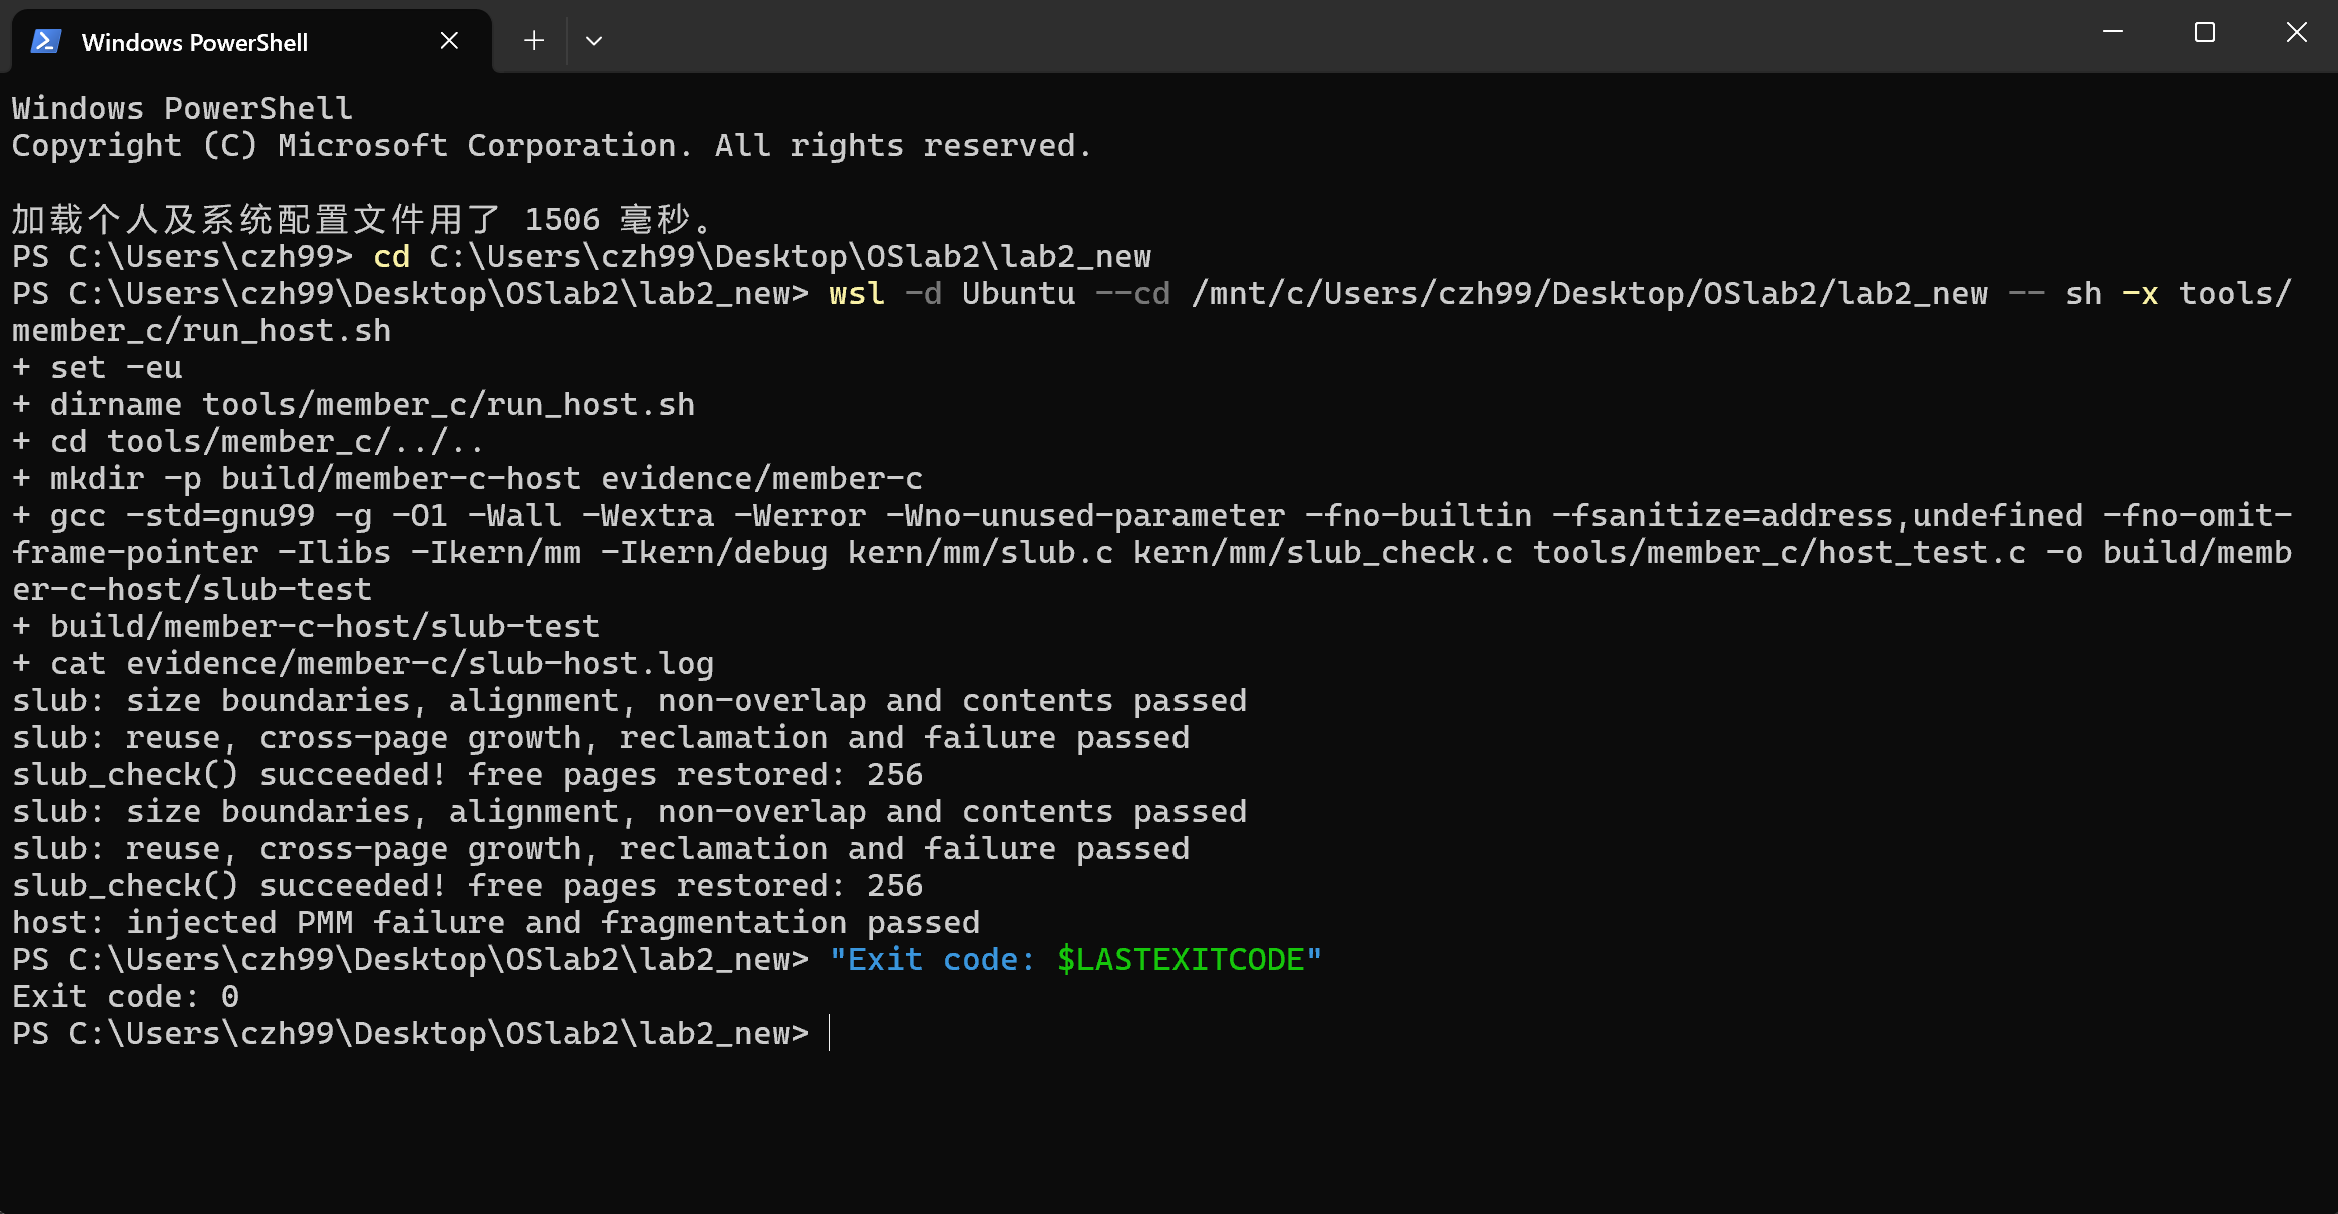
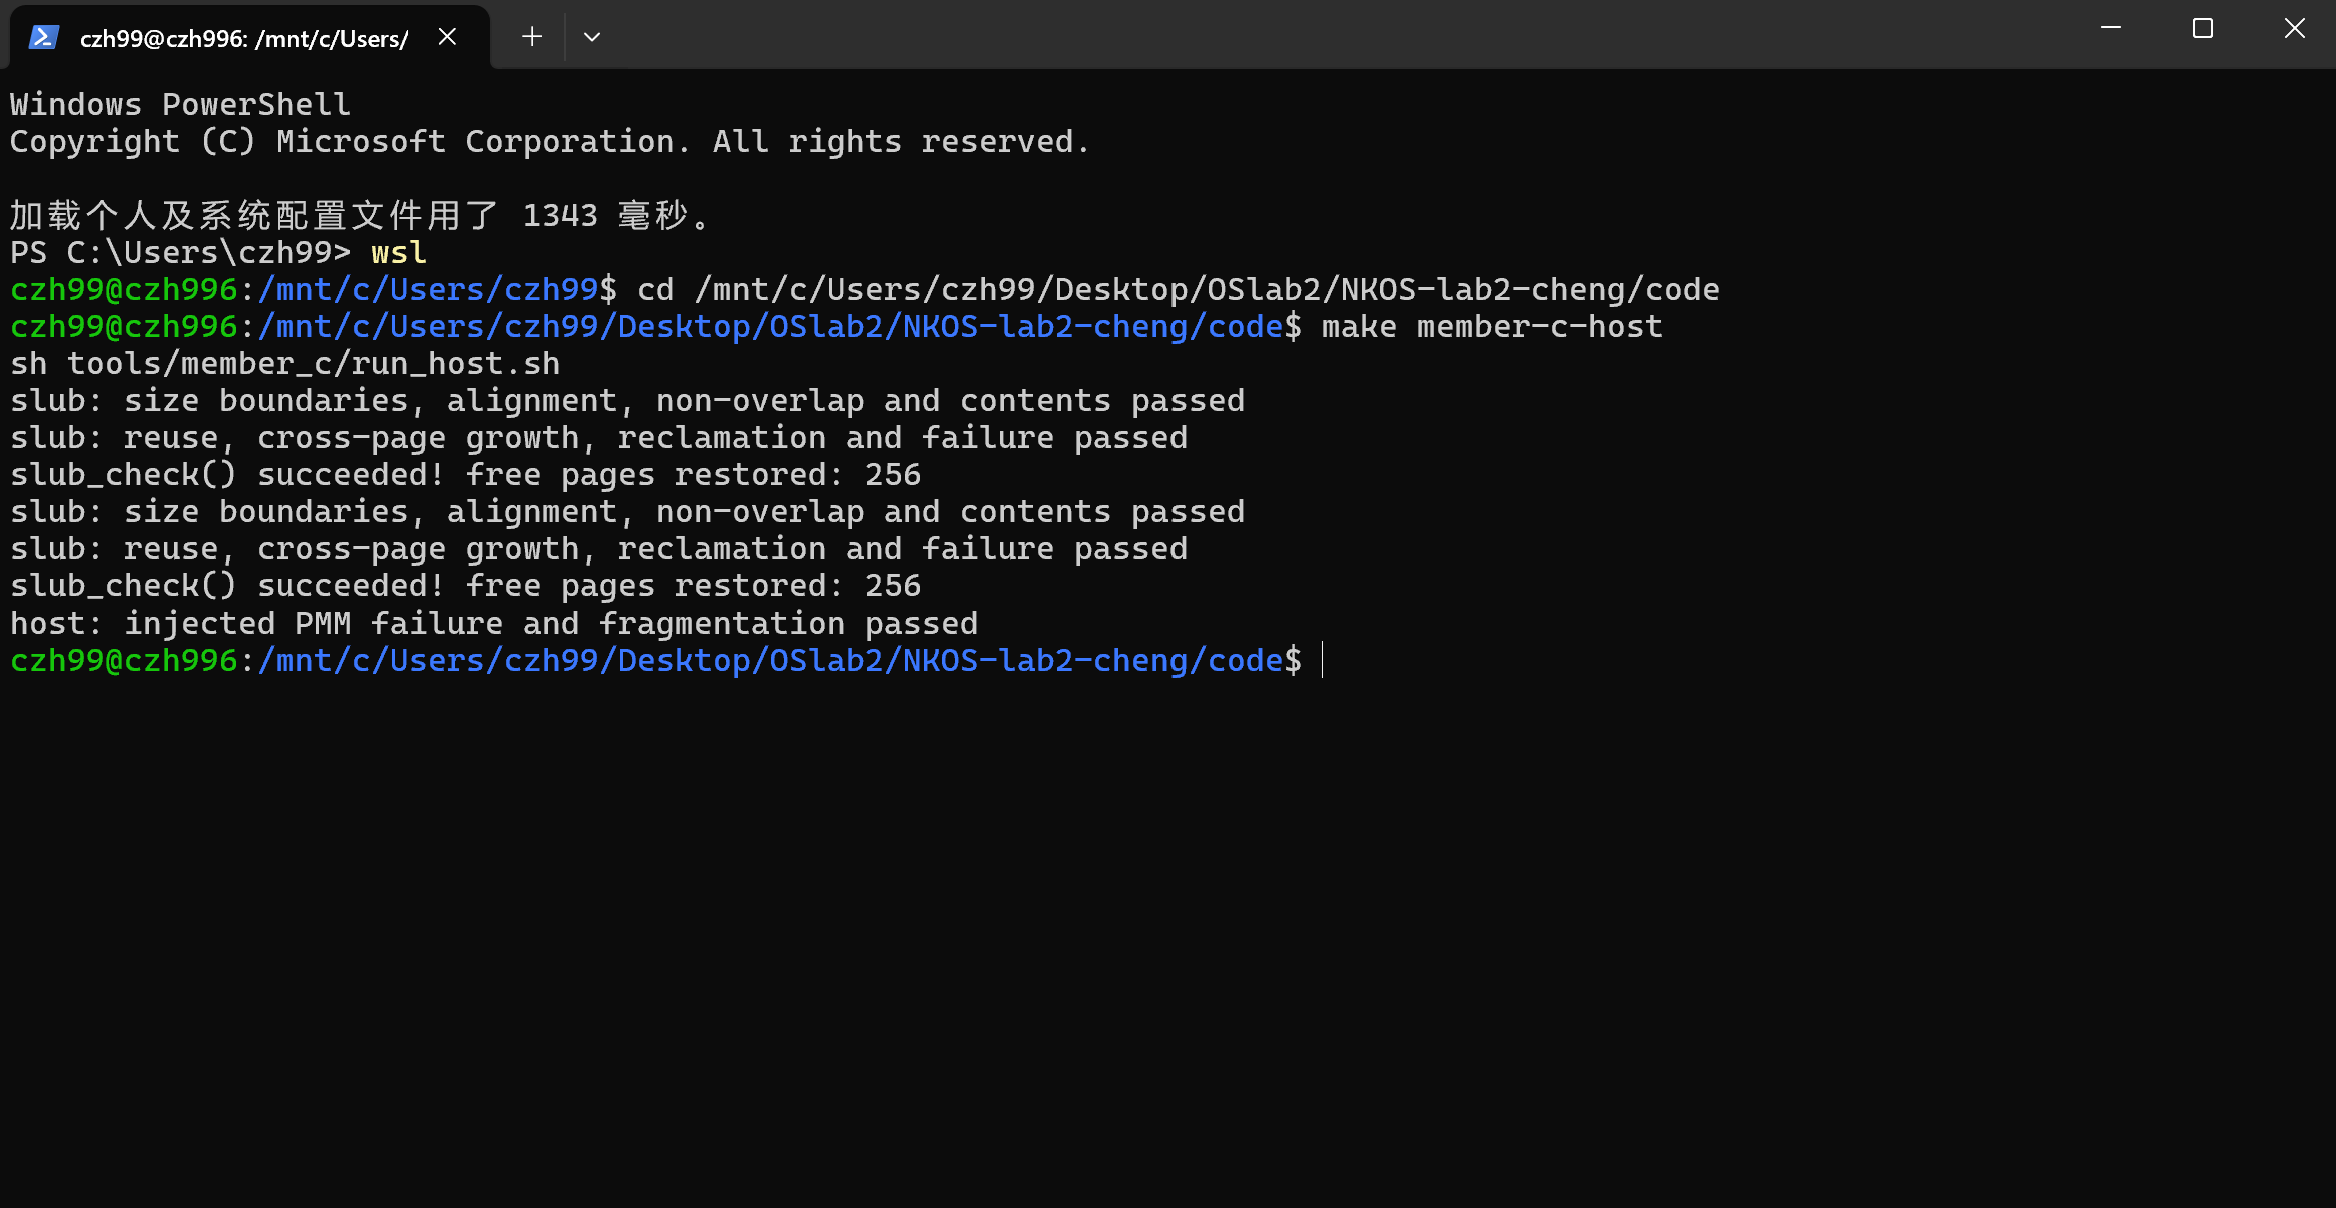
补充成员C最终集成验证截图

diff --git a/report/report.md b/report/report.md
@@ -18,7 +18,7 @@
 | 2412790 杨茜茹（B） | Buddy 设计、实现与测试 | Buddy 设计、实现与测试；代码集成 |
 | 2413921 程子涵（C） | QEMU 地址翻译/TLB 六项调试、SLUB 实现与测试 | 本报告、调试证据及 lab2-cheng 分支交付 |
 
-本报告按照仓库规定的“实验基本信息—实验目的—实验环境—整体逻辑—实验内容与实现—测试与验证—总结”格式编排。本章所选截图为成员 C 保存的 10 月 17 日早期调试画面，用于展示当时的观察过程；最终 Best-Fit/Buddy 集成结果以正文记录的 10 月 18 日运行结果为准。本章所选截图为成员 C 保存的 10 月 17 日早期调试画面，用于展示当时的观察过程；最终 Best-Fit/Buddy 集成结果以正文记录的 10 月 18 日运行结果为准。
+本报告按照仓库规定的“实验基本信息—实验目的—实验环境—整体逻辑—实验内容与实现—测试与验证—总结”格式编排。本章同时保留 10 月 17 日早期调试截图与 10 月 18 日最终集成运行截图。图注标明对应配置和验证范围，避免将早期隔离运行与最终管理器集成混为一谈。本章同时保留 10 月 17 日早期调试截图与 10 月 18 日最终集成运行截图。图注标明对应配置和验证范围，避免将早期隔离运行与最终管理器集成混为一谈。
 
 
 
@@ -144,7 +144,7 @@ size_t slub_owned_pages(void);
 
 ![成员 C 早期宿主 SLUB 测试](images/01-slub-host.png)
 
-图 1：10 月 17 日早期宿主 SLUB 测试画面，显示边界、复用、回收、PMM 失败和碎片化用例通过。该画面来自隔离 First-Fit 阶段，最终管理器集成结果见第五章。
+图 1：10 月 18 日在当前成员 C 工作树运行 `make member-c-host` 的宿主测试结果。类别边界、复用、回收、PMM 失败与碎片化测试通过，空闲页恢复到 256。该测试使用宿主 PMM 模型，QEMU 集成结果见第五章。
 
 ##### 实现规格
 
@@ -437,13 +437,32 @@ satp=0、access_type=1，调用栈为 store_helper 的慢路径，返回 PA=`0x8
 | 默认 Best-Fit 启动 | PMM 检查通过，初始空闲页 31929 |
 | Buddy 宿主测试 | 28/28，包含 10 个正常场景与 18 个预期拒绝场景 |
 | Best-Fit＋SLUB＋MMU 探针 | SLUB 回收后恢复 31927 页 |
-| Buddy＋SLUB | 回收后恢复 31792 页，前后不变量检查通过 |
+| Buddy＋SLUB（未启用 MMU 探针） | 回收后恢复 31792 页，前后不变量检查通过 |
+| Buddy＋SLUB＋MMU 探针 | 回收后恢复 31791 页，Buddy 与 PMM 检查通过 |
 | 原有评分 | Page Init 与 Best-Fit 均通过，20/20 |
 | QEMU 地址翻译调试 | Bare 数据存储、Sv39 两次读取、一次目标慢路径及页表单步结果一致 |
 
 20/20 仅覆盖原有评分项。Buddy 的 28 个场景在宿主执行，没有逐项在客体中运行。QEMU 内核保留框架原有等待循环，自动运行器在观察窗口结束后停止 QEMU。
 
-### 5.3 提交内容
+### 5.3 最终集成截图
+
+![最终 Best-Fit、SLUB 与 MMU 探针运行](images/09-final-bestfit.png)
+
+图 8：10 月 18 日 Best-Fit＋SLUB＋MMU 探针的 QEMU 输出。显示实际管理器、PMM 检查、MMU 探针参数，以及 SLUB 回收后恢复 31927 页。
+
+![最终 Buddy、SLUB 集成和 Buddy 宿主测试](images/10-final-buddy-host.png)
+
+图 9：上半部分是 Buddy＋SLUB＋MMU 探针的 QEMU 检查（恢复 31791 页），下半部分是 Buddy 宿主测试的 `RESULT: 28/28 passed`。两项测试运行在不同层次，截图分别显示其结果。
+
+![最终集成内核的双 GDB trace](images/11-final-gdb-trace.png)
+
+图 10：10 月 18 日对最终集成内核进行双 GDB trace。宿主记录 Bare 访问和目标 Sv39 页表遍历，客体确认两条 `ld` 均读到 `0x1122334455667788`。
+
+![最终页表步进结果与原评分](images/12-final-step-grade.png)
+
+图 11：最终集成内核的单步结果显示 PA=`0x80208000`；随后原有 Page Init/Best-Fit 评分为 20/20。评分仅对应原有评分项。
+
+### 5.4 提交内容
 
 源码位于 `code/`，包括 SLUB、MMU 探针、宿主测试及 QEMU 调试工具。实验报告为本文件，八项任务的综合提示词见 [prompt.md](prompt.md)。本分支保留源码、报告、综合提示词和报告引用的必要截图；编译产物、运行日志及其他截图不纳入提交。
 
